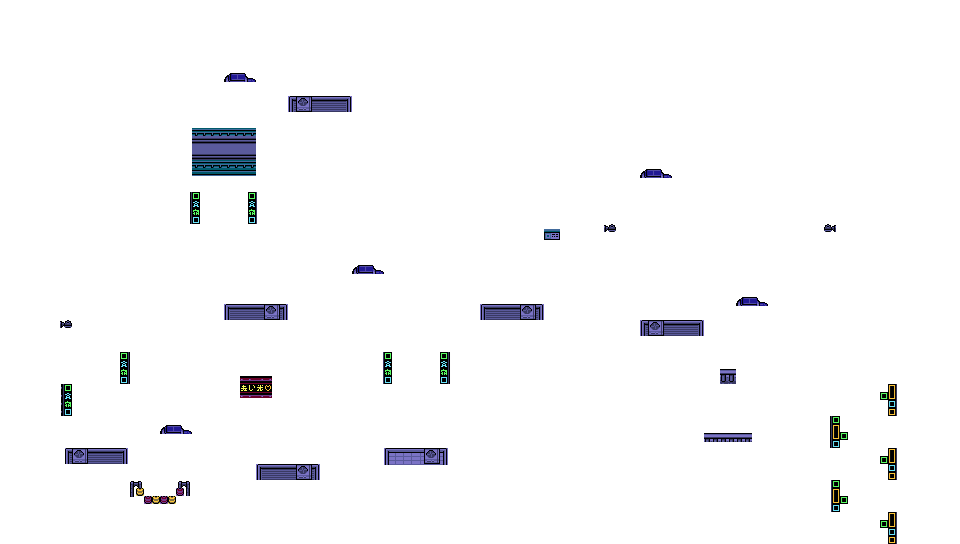
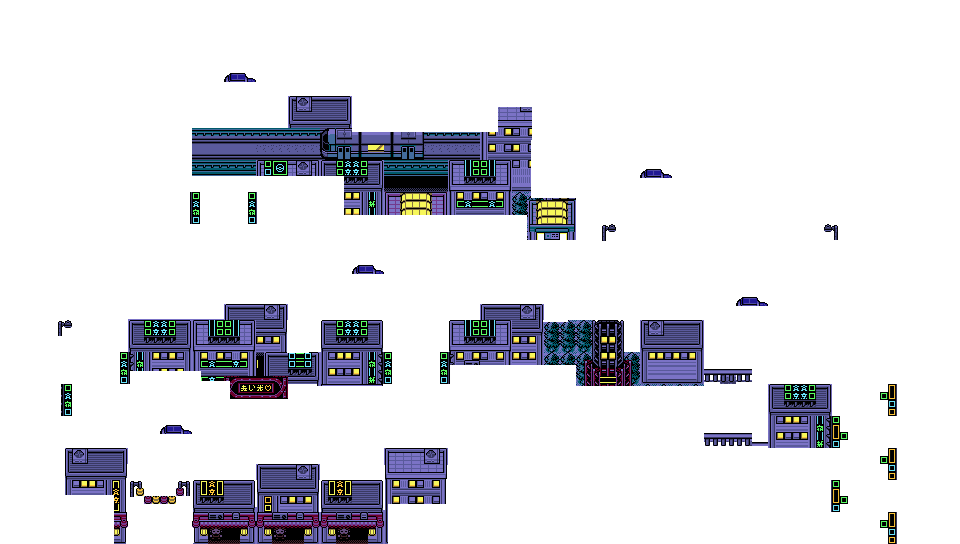
Add files via upload

diff --git a/map.js b/map.js
@@ -76,15 +76,15 @@ function deplacement(key) {
 
 
 function affichageJoueur(name, orient) {
-    var temp = "";
+    var avatar = "<div class='avatar'>&nbsp;" + name + "&nbsp;</div>";
     if (orient == 'n') {
-        temp = temp + "<div id='" + name + "' class='users'><p class='avatar'>" + name + "</p><img src='P1/dos.png'/></div>"
+        temp = "<div id='" + name + "' class='users'>" + avatar + "<img src='P1/dos.png'/></div>"
     } else if (orient == 's') {
-        temp = temp + "<div id='" + name + "' class='users'><p class='avatar'>" + name + "</p><img src='P1/face.png'/></div>"
+        temp = "<div id='" + name + "' class='users'>" + avatar + "<img src='P1/face.png'/></div>"
     } else if (orient == 'w') {
-        temp = temp + "<div id='" + name + "' class='users'><p class='avatar'>" + name + "</p><img src='P1/gauche.png'/></div>"
+        temp = "<div id='" + name + "' class='users'>" + avatar + "<img src='P1/gauche.png'/></div>"
     } else {
-        temp = temp + "<div id='" + name + "' class='users'><p class='avatar'>" + name + "</p><img src='P1/droite.png'/></div>"
+        temp = "<div id='" + name + "' class='users'>" + avatar + "<img src='P1/droite.png'/></div>"
     }
     return temp;
 }
@@ -110,7 +110,7 @@ function affichageJoueurs() {
                     coordy = content["users"][i][2];
                     start = false;
                 }
-                temp = temp + affichageJoueur(content["users"][i][0],content["users"][i][3])
+                temp += affichageJoueur(content["users"][i][0],content["users"][i][3])
             }
             carte.innerHTML += temp;
             for (let i = 0; i < content["users"].length; i++) {

diff --git a/style.css b/style.css
@@ -8,7 +8,7 @@ body {
 	width: 100%;
     height: 100%;
 	margin: auto;
-	font-family: "Gill Sans", sans-serif;
+	font-family: 'Gill Sans', 'Gill Sans MT', Calibri, 'Trebuchet MS', sans-serif
 }
 
 
@@ -69,19 +69,15 @@ input[type="submit"]:focus, button:focus {
 }
 
 a {
-    color: #333;
     text-decoration: none;
     transition: color 0.3s ease;
 }
 
-a:hover {
-    color: #666;
-}
-
 #reglages {
-    width: 50%;
-    display: flex;
-    justify-content: space-around;
+    width: 75%;
+    margin: auto;
+    border: solid black;
+    border-radius: 20px;
 }
 
 label {
@@ -168,8 +164,9 @@ h1.formTitle {
     padding:10px;
 }
 
-.formButton {
-    width: 40%;
+#loginForm input[type="submit"], #signUpForm input[type="submit"] {
+    margin: auto;
+    width: 10%;
 }
 
 img.map {
@@ -207,18 +204,17 @@ img.map {
     height: auto;
 }
 
-.avatar {
+div.avatar {
+    font-weight: bold;
     position: absolute;
     z-index: 1002;
     background-color: white;
     color:black;
     bottom:100%;
-    width: auto;
-    height: auto;
+    height: 1.5em;
     font-size: 15px;
+    border-radius: 10%;
 }
-
-
 
 #decoButton {
     height:5%;
@@ -229,4 +225,29 @@ img.map {
 textarea {
     resize : none;
     border-radius: 5px;
+}
+
+div.quitter {
+    width: 50px;
+    height: 50px;
+    margin: 20px;
+    border: solid black;
+    border-radius: 15px;
+    position: absolute;
+    top: 0;
+    right: 0;
+}
+
+div.quitter img {
+    width: 50px;
+}
+
+#reglages {
+    display: flex;
+    justify-content: space-around;
+    align-items: center;
+}
+
+#reglages button, #reglages input[type="submit"] {
+    margin: 20px;
 }

diff --git a/position.php b/position.php
@@ -22,26 +22,26 @@ $positionsValides = [
 [0,0,0,0,0,0,0,0,0,0,0,0,1,1,1,1,0,0,0,0,0,0,0,0,0,0,0,0,0,0,0,0,0,0,0,0,0,0,1,1,0,0,1,1,1,1,1,1,1,1,1,1,1,0,0,0,0,0,0,0],
 [0,0,0,0,0,0,0,0,0,0,0,0,1,1,1,1,0,0,0,0,0,0,0,0,0,0,0,0,0,0,0,0,0,0,0,0,0,0,1,1,1,1,1,1,1,1,1,1,1,1,1,1,1,0,1,1,0,0,0,0],
 [0,0,0,0,0,0,0,0,0,0,0,0,1,1,1,1,0,0,0,0,0,0,0,0,0,0,0,0,0,0,0,0,0,0,0,0,0,0,1,1,1,1,1,1,1,1,1,1,1,1,1,1,1,1,1,1,0,0,0,0],
-[0,0,0,0,0,0,0,0,0,0,0,0,1,1,1,1,0,0,0,0,0,0,0,0,0,0,0,0,0,0,0,0,0,0,0,0,0,0,1,1,1,1,1,1,0,0,1,1,1,1,1,0,0,0,0,0,0,0,0,0],
-[0,0,0,0,0,0,0,0,0,0,0,0,1,1,1,1,0,0,0,0,0,0,0,0,0,0,0,0,0,0,0,0,0,0,0,0,0,0,1,1,1,1,1,1,0,0,1,1,1,1,1,0,0,0,0,0,0,0,0,0],
+[0,0,0,0,0,0,0,0,0,0,0,0,1,1,1,1,0,0,0,0,0,0,0,0,0,0,0,0,0,0,0,0,0,0,0,0,0,0,1,1,1,1,1,1,0,0,1,1,1,1,1,1,0,0,0,0,0,0,0,0],
+[0,0,0,0,0,0,0,0,0,0,0,0,1,1,1,1,0,0,0,0,0,0,0,0,0,0,0,0,0,0,0,0,0,0,1,0,0,0,1,1,1,1,1,1,0,0,1,1,1,1,1,1,0,0,0,0,0,0,0,0],
 [0,0,0,0,1,1,1,1,1,1,1,1,1,1,1,1,1,1,1,1,1,1,1,1,1,1,1,1,1,1,1,1,1,1,1,1,1,1,1,1,1,1,1,1,1,1,1,1,1,1,1,1,0,0,0,0,0,0,0,0],
 [0,0,0,0,1,1,1,1,1,1,1,1,1,1,1,1,1,1,1,1,1,1,0,0,1,1,1,1,1,1,1,1,1,1,1,1,1,1,1,1,1,1,0,0,0,0,0,0,1,1,1,1,0,0,0,0,0,0,0,0],
 [0,0,0,0,1,1,1,1,1,1,1,1,1,1,1,1,1,1,1,1,1,1,1,1,1,1,1,1,1,1,1,1,1,1,1,1,1,1,1,1,1,1,1,1,1,1,1,1,1,1,1,1,0,0,0,0,0,0,0,0],
 [0,0,0,0,1,1,1,1,1,1,1,1,1,1,1,1,1,1,1,1,1,1,1,1,1,1,1,1,1,1,1,1,1,1,1,1,1,1,1,1,1,1,1,1,1,1,0,0,1,1,1,1,0,0,0,0,0,0,0,0],
-[0,0,0,0,1,1,1,1,0,0,0,0,0,0,0,0,0,0,0,0,0,0,0,0,1,1,1,1,0,0,0,0,0,0,0,0,0,0,0,1,1,1,1,1,1,1,1,1,1,1,1,1,0,0,0,0,0,0,0,0],
-[0,0,0,0,1,1,1,1,0,0,0,0,0,0,0,0,0,0,0,0,0,0,0,0,1,1,1,1,0,0,0,0,0,0,0,0,0,0,0,1,1,1,1,1,1,1,1,1,1,1,1,1,0,0,0,0,0,0,0,0],
-[0,0,0,0,1,1,1,1,0,0,0,0,0,0,0,0,0,0,0,0,0,0,0,0,1,1,1,1,0,0,0,0,0,0,0,0,0,0,0,0,0,0,0,0,1,1,1,1,1,1,1,1,1,1,1,1,0,0,0,0],
-[0,0,0,0,1,1,1,1,0,0,0,0,0,0,0,0,0,0,0,0,0,0,0,0,1,1,1,1,0,0,0,0,0,0,0,0,0,0,0,0,0,0,0,0,0,0,0,1,1,1,1,1,1,1,1,1,0,0,0,0],
-[0,0,0,0,1,1,1,1,0,0,0,0,0,0,0,0,0,0,0,0,0,0,0,0,1,1,1,1,0,0,0,0,0,0,0,0,0,0,0,0,0,0,0,0,0,0,0,1,0,0,0,0,1,1,1,0,0,0,0,0],
-[0,0,0,0,1,1,1,1,0,0,0,0,0,0,0,0,0,0,0,0,0,0,0,0,1,1,1,1,0,0,0,0,0,0,0,0,0,0,0,0,0,0,0,0,1,1,0,1,0,0,0,0,1,1,1,0,0,0,0,0],
-[0,0,0,0,1,1,1,1,1,1,1,1,1,1,1,1,1,1,1,1,1,1,1,1,1,1,1,1,0,0,0,0,0,0,0,0,0,0,0,0,0,0,0,0,1,1,1,1,0,0,0,0,0,1,1,0,0,0,0,0],
-[0,0,0,0,1,1,1,1,1,1,0,0,1,1,1,1,1,1,1,1,1,1,1,1,1,1,1,1,0,0,0,0,0,0,0,0,0,0,0,0,0,0,0,0,0,0,0,1,0,0,0,0,0,1,1,1,0,0,0,0],
-[0,0,0,0,1,1,1,1,1,1,1,1,1,1,1,1,1,1,1,1,1,1,1,1,1,1,1,1,0,0,0,0,0,0,0,0,0,0,0,0,0,0,0,0,0,0,0,1,0,0,0,0,0,1,1,0,0,0,0,0],
-[0,0,0,0,1,1,1,1,1,1,1,1,1,1,1,1,1,1,1,1,1,1,1,1,1,1,1,1,0,0,0,0,0,0,0,0,0,0,0,0,0,0,0,0,0,0,0,0,0,0,0,0,1,1,1,0,0,0,0,0],
-[0,0,0,0,0,0,0,0,1,1,1,1,0,0,0,0,0,0,0,0,0,0,0,0,0,0,0,0,0,0,0,0,0,0,0,0,0,0,0,0,0,0,0,0,0,0,0,0,0,0,0,0,0,1,1,0,0,0,0,0],
-[0,0,0,0,0,0,0,0,0,1,1,0,0,0,0,0,0,0,0,0,0,0,0,0,0,0,0,0,0,0,0,0,0,0,0,0,0,0,0,0,0,0,0,0,0,0,0,0,0,0,0,0,0,1,1,1,0,0,0,0],
-[0,0,0,0,0,0,0,0,1,1,1,1,0,0,0,0,0,0,0,0,0,0,0,0,0,0,0,0,0,0,0,0,0,0,0,0,0,0,0,0,0,0,0,0,0,0,0,0,0,0,0,0,0,1,1,0,0,0,0,0],
-[0,0,0,0,0,0,0,0,1,1,1,1,0,0,0,0,0,0,0,0,0,0,0,0,0,0,0,0,0,0,0,0,0,0,0,0,0,0,0,0,0,0,0,0,0,0,0,0,0,0,0,0,1,1,1,0,0,0,0,0]
+[0,0,0,0,1,1,1,1,0,0,0,0,0,0,0,0,0,0,0,0,0,0,0,0,1,1,1,1,0,0,0,0,0,0,0,0,0,1,0,1,1,1,1,1,1,1,1,1,1,1,1,1,0,0,0,0,0,0,0,0],
+[0,0,0,0,1,1,1,1,0,0,0,0,0,0,0,0,0,0,0,0,0,0,0,0,1,1,1,1,0,0,0,0,0,0,0,0,0,1,0,1,1,1,1,1,1,1,1,1,1,1,1,1,0,0,0,0,0,0,0,0],
+[0,0,0,0,1,1,1,1,0,0,0,0,0,0,0,0,0,0,0,0,0,0,0,0,1,1,1,1,0,0,0,0,0,0,0,0,0,1,0,0,0,0,0,0,1,1,1,1,1,1,1,1,1,1,1,1,0,0,0,0],
+[0,0,0,0,1,1,1,1,0,0,0,0,0,0,0,0,0,0,0,0,0,0,0,0,1,1,1,1,0,0,0,0,0,0,0,0,0,1,0,0,0,0,0,0,0,0,0,1,1,1,1,1,1,1,1,1,0,0,0,0],
+[0,0,0,0,1,1,1,1,0,0,0,0,0,0,0,0,0,0,0,0,0,0,0,0,1,1,1,1,0,0,0,0,0,0,0,0,0,1,0,0,0,0,0,0,0,0,0,1,1,1,1,1,1,1,1,0,0,0,0,0],
+[0,0,0,0,1,1,1,1,0,0,0,0,0,0,0,1,1,0,0,0,0,0,0,0,1,1,1,1,0,0,0,0,0,0,0,0,0,1,0,0,0,0,0,0,1,1,0,1,0,1,1,1,1,1,1,0,0,0,0,0],
+[0,0,0,0,1,1,1,1,1,1,1,1,1,1,1,1,1,1,1,1,1,1,1,1,1,1,1,1,0,0,0,0,0,0,0,0,0,1,0,0,0,0,0,0,1,1,1,1,0,0,0,0,0,1,1,0,0,0,0,0],
+[0,0,0,0,1,1,1,1,1,1,0,0,1,1,1,1,1,1,1,1,1,1,1,1,1,1,1,1,0,0,0,0,0,0,0,0,0,1,0,0,0,0,0,0,0,0,0,1,0,0,0,0,0,1,1,1,0,0,0,0],
+[0,0,0,0,1,1,1,1,1,1,1,1,1,1,1,1,1,1,1,1,1,1,1,1,1,1,1,1,0,0,0,0,0,0,0,0,0,1,0,0,0,0,0,0,0,0,0,0,0,0,0,0,0,1,1,0,0,0,0,0],
+[0,0,0,0,1,1,1,1,1,1,1,1,1,1,1,1,1,1,1,1,1,1,1,1,1,1,1,1,0,0,0,0,0,0,0,0,0,1,1,0,0,0,0,0,0,0,0,0,0,0,0,0,1,1,1,0,0,0,0,0],
+[0,0,0,0,0,0,0,0,1,1,1,1,0,0,0,0,0,0,0,0,0,0,0,0,0,0,0,0,0,0,0,0,0,0,0,0,0,1,1,0,0,0,0,0,0,0,0,0,0,0,0,0,0,1,1,0,0,0,0,0],
+[0,0,0,0,0,0,0,0,0,1,1,0,0,0,0,0,0,0,0,0,0,0,0,0,0,0,0,0,0,0,0,0,0,0,0,1,0,1,1,0,1,1,0,0,0,0,0,0,0,0,0,0,0,1,1,1,0,0,0,0],
+[0,0,0,0,0,0,0,0,1,1,1,1,0,0,0,0,0,0,0,0,0,0,0,0,0,0,0,0,0,0,0,0,1,1,0,1,1,1,1,0,1,0,0,0,0,0,0,0,0,0,0,0,0,1,1,0,0,0,0,0],
+[0,0,0,0,0,0,0,0,1,1,1,1,0,0,0,0,0,0,0,0,0,0,0,0,0,0,0,0,0,0,1,1,1,1,1,1,1,1,1,1,1,0,0,0,0,0,0,0,0,0,0,0,1,1,1,0,0,0,0,0]
 ];
 
 if ($_SERVER["REQUEST_METHOD"] == "POST") {

diff --git a/messagerie.php b/messagerie.php
@@ -82,7 +82,7 @@ if ($_SERVER["REQUEST_METHOD"] == "GET") {
             $heure = $temp['heure'];
             $mess = $temp['mess'];
             $_SESSION["moment"] = $temp['id'];
-            $allMessages[$i] = '[' . $heure . ']' . $user . ' : ' . $mess . '<br />';
+            $allMessages[$i] = '[' . $heure . ']' . ' ' . $user . ' : ' . $mess . '<br />';
         }
         
 
